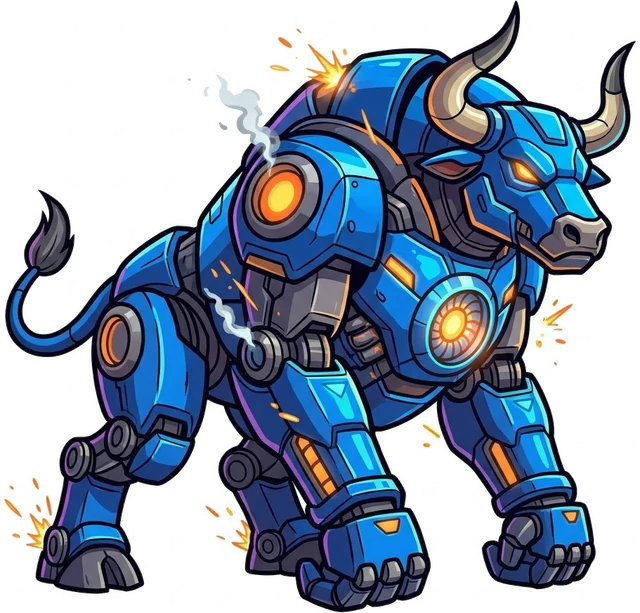
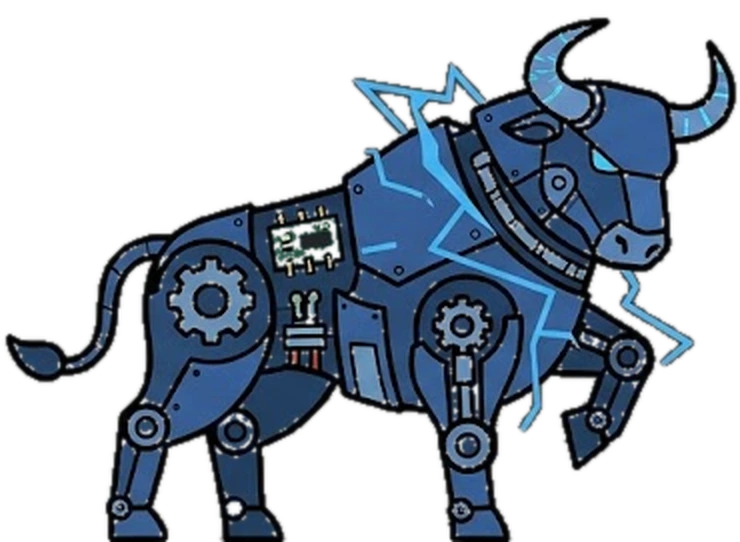
Арена: новая модель быка — красный мех из деталей, перекраска под цвет игрока
Claude-Session: https://claude.ai/code/session_01BjYnbWe2yGJMkmw3JP3QYt

diff --git a/rig.js b/rig.js
@@ -101,9 +101,76 @@ window.Rig = (() => {
     const tf = (x, y) => { const dx = x - PIV[0]; return [PIV[0] + dx * ca - y * sa, dx * sa + y * ca + dip]; };
     const N = [54, -106], hc = Math.cos(rad(ha)), hs = Math.sin(rad(ha));
     const head = (x, y) => tf(N[0] + x * hc - y * hs, N[1] + x * hs + y * hc);
-    return { lean, dip, ha, PIV, tf, N, head, gN: head(47, -45), gF: head(30, -36) };
+    return { lean, dip, ha, PIV, tf, N, head, gN: head(54, -86), gF: head(42, -72) };
   }
-  function hornPath() { cx.beginPath(); cx.moveTo(-6, -20); cx.quadraticCurveTo(21, -62, 68, -48); cx.quadraticCurveTo(32, -42, 8, -12); cx.closePath(); }
+  /* ---------- спрайты быка (детали из листа, красные → перекрашиваются под цвет игрока) ---------- */
+  const SPR = {}, SPN = { head: 1, torso: 1, legf: 1, legh: 1, tail: 1, gear: 1 }, CACHE = {};
+  Object.keys(SPN).forEach((k) => { const im = new Image(); im.onload = () => { SPR[k] = im; }; im.src = 'arena/bull_' + k + '.webp?v=1'; });
+  function hslOf(h) { const [r, g, b] = hex(h).map((v) => v / 255), mx = Math.max(r, g, b), mn = Math.min(r, g, b), d = mx - mn; let hh = 0; if (d) { hh = mx === r ? ((g - b) / d + 6) % 6 : mx === g ? (b - r) / d + 2 : (r - g) / d + 4; } return hh * 60; }
+  function recolor(name, col, dark, tint, tc) {
+    const key = [name, col, dark, tint, tc].join('|'); if (CACHE[key]) return CACHE[key];
+    const im = SPR[name], c = document.createElement('canvas'); c.width = im.width; c.height = im.height;
+    const g = c.getContext('2d', { willReadFrequently: true }); g.drawImage(im, 0, 0);
+    const d = g.getImageData(0, 0, c.width, c.height), px = d.data, shift = hslOf(col) - 3;
+    for (let i = 0; i < px.length; i += 4) {
+      if (!px[i + 3]) continue;
+      let r = px[i] / 255, gg = px[i + 1] / 255, b = px[i + 2] / 255;
+      const mx = Math.max(r, gg, b), mn = Math.min(r, gg, b), dl = mx - mn, l = (mx + mn) / 2;
+      if (dl > .05) {
+        let h = mx === r ? ((gg - b) / dl + 6) % 6 : mx === gg ? (b - r) / dl + 2 : (r - gg) / dl + 4; h *= 60;
+        const sat = dl / (1 - Math.abs(2 * l - 1) || 1);
+        if (h < 28 || h > 330) { // красный/розовый металл — перекрашиваем, жёлтые глаза и огонь не трогаем
+          h = (h + shift + 720) % 360;
+          const C2 = (1 - Math.abs(2 * l - 1)) * sat, X = C2 * (1 - Math.abs((h / 60) % 2 - 1)), m = l - C2 / 2, k = Math.floor(h / 60);
+          const q = [[C2, X, 0], [X, C2, 0], [0, C2, X], [0, X, C2], [X, 0, C2], [C2, 0, X]][k % 6]; r = q[0] + m; gg = q[1] + m; b = q[2] + m;
+        }
+      }
+      if (dark) { r *= .66; gg *= .66; b *= .7; }
+      if (tint > 0) { r += (tc[0] / 255 - r) * tint; gg += (tc[1] / 255 - gg) * tint; b += (tc[2] / 255 - b) * tint; }
+      px[i] = r * 255; px[i + 1] = gg * 255; px[i + 2] = b * 255;
+    }
+    g.putImageData(d, 0, 0); return (CACHE[key] = c);
+  }
+  // нарисовать спрайт так, чтобы его точка (px,py) попала в (x,y); sc — масштаб, ang — поворот, mir — отражение
+  function spr(name, col, dark, px, py, x, y, sc, ang = 0, mir = 1) {
+    if (!SPR[name]) return;
+    const tn = TINT > 0 ? Math.round(TINT * 6) / 6 : 0, c = recolor(name, col, dark ? 1 : 0, tn, TC);
+    cx.save(); cx.translate(x, y); cx.rotate(ang); cx.scale(sc, sc * mir); cx.drawImage(c, -px, -py); cx.restore();
+  }
+  // ноги: две части (бедро и голень), режем спрайт по колену и ставим по IK
+  const LEGS = {
+    legf: { H: [27, 22], K: [51, 83], F: [95, 133], sc: .72 },
+    legh: { H: [30, 26], K: [28, 85], F: [33, 133], sc: .9 },
+  };
+  function legPiece(name, col, dark, tint, tc, part) {
+    const key = ['leg', name, col, dark, tint, tc, part].join('|'); if (CACHE[key]) return CACHE[key];
+    const src = recolor(name, col, dark, tint, tc), Lg = LEGS[name], c = document.createElement('canvas'); c.width = src.width; c.height = src.height;
+    const g = c.getContext('2d'), ax = [Lg.K[0] - Lg.H[0], Lg.K[1] - Lg.H[1]], al = Math.hypot(ax[0], ax[1]), u = [ax[0] / al, ax[1] / al];
+    g.save(); g.beginPath();
+    // полуплоскость, перпендикулярная кости, через колено (нижняя часть захватывает диск колена целиком)
+    const off = part ? -15 : 0, P0 = [Lg.K[0] + u[0] * off, Lg.K[1] + u[1] * off], n = [-u[1], u[0]], B = 400;
+    const dir = part ? 1 : -1;
+    g.moveTo(P0[0] + n[0] * B, P0[1] + n[1] * B); g.lineTo(P0[0] - n[0] * B, P0[1] - n[1] * B);
+    g.lineTo(P0[0] - n[0] * B + u[0] * B * dir, P0[1] - n[1] * B + u[1] * B * dir); g.lineTo(P0[0] + n[0] * B + u[0] * B * dir, P0[1] + n[1] * B + u[1] * B * dir);
+    g.closePath(); g.clip(); g.drawImage(src, 0, 0); g.restore();
+    return (CACHE[key] = c);
+  }
+  function drawLeg(name, col, dark, h, kn, ft) {
+    const Lg = LEGS[name]; if (!SPR[name]) return;
+    const tn = TINT > 0 ? Math.round(TINT * 6) / 6 : 0, sc = Lg.sc;
+    const up = legPiece(name, col, dark ? 1 : 0, tn, TC, 0), lo = legPiece(name, col, dark ? 1 : 0, tn, TC, 1);
+    const sU = Math.atan2(Lg.K[1] - Lg.H[1], Lg.K[0] - Lg.H[0]), sL = Math.atan2(Lg.F[1] - Lg.K[1], Lg.F[0] - Lg.K[0]);
+    const cross = (Lg.F[0] - Lg.H[0]) * (Lg.K[1] - Lg.H[1]) - (Lg.F[1] - Lg.H[1]) * (Lg.K[0] - Lg.H[0]);
+    const cr2 = (ft[0] - h[0]) * (kn[1] - h[1]) - (ft[1] - h[1]) * (kn[0] - h[0]);
+    const mir = (cross > 0) === (cr2 > 0) ? 1 : -1;
+    const aU = Math.atan2(kn[1] - h[1], kn[0] - h[0]), aL = Math.atan2(ft[1] - kn[1], ft[0] - kn[0]);
+    const put = (img, px, py, x, y, a, sa) => { cx.save(); cx.translate(x, y); cx.rotate(a); cx.scale(sc, sc * mir); cx.rotate(-sa); cx.drawImage(img, -px, -py); cx.restore(); };
+    put(up, Lg.H[0], Lg.H[1], h[0], h[1], aU, sU);
+    put(lo, Lg.K[0], Lg.K[1], kn[0], kn[1], aL, sL);
+  }
+  function bullHead(P, S) { // голова в системе шеи (0,0): тянется к рогам
+    const sc = .72; spr('head', P.col || '#2f7dff', false, 35, 135, 0, 6, sc, 0, 1);
+  }
   function drawBull(P, S) {
     const t = P.t, pr = P.p, { tf, N, ha, PIV, dip, lean } = S, sc = P.scars;
     const BLUE = P.col || '#2f7dff', DARK = '#262d40', STEEL = '#58627a', BDK = shade(BLUE, .33), BSC = shade(BLUE, .2);
@@ -112,65 +179,40 @@ window.Rig = (() => {
     if (P.koM) { cx.translate(-50, 0); cx.rotate(-rad(P.koM * 14)); cx.translate(50, 0); }
     TINT = P.flashM * .7; TC = [255, 50, 40];
     if (P.charge > 0 && TINT < P.charge * .45) { TINT = P.charge * .45; TC = [130, 220, 255]; }
-    const jig = (i) => pr < -.1 ? Math.sin(t * 30 + i * 2.1) * 2 * -pr : 0;
-    const legs = [[-50, -74, -52, 1, 1], [30, -70, 40, -1, 1], [-36, -72, -34, 1, 0], [44, -68, 58, -1, 0]];
+    const legs = [[-54, -88, -56, 1, 1], [24, -92, 42, -1, 1], [-38, -86, -36, 1, 0], [36, -90, 60, -1, 0]];
     const eff = .45 + 1.1 * P.kickM + .45 * Math.abs(pr), amp = 9 + 14 * eff, sid = P.sid || 'l', OFF = [0, .5, .25, .75];
     const leg = (L, i) => {
-      const [hx, hy, fx, dir, far] = L, h = tf(hx, hy), [sdx, lf] = P.koM > .2 ? [0, 0] : stepFoot(sid + 'b' + i, OFF[i], t, eff, amp, P.bx + fx), [kn, ft] = ik(h, [fx + sdx, -lf], 34, 36, dir), c = far ? BDK : BLUE;
-      limb(h, kn, far ? 18 : 22, c); limb(kn, ft, far ? 13 : 15, far ? '#3e475d' : STEEL);
-      const pa = [h[0] + (kn[0] - h[0]) * .3 + 6 * dir, h[1] + (kn[1] - h[1]) * .3], pb = [kn[0] + (ft[0] - kn[0]) * .45 + 5 * dir, kn[1] + (ft[1] - kn[1]) * .45];
-      cx.lineCap = 'round'; cx.strokeStyle = OUT; cx.lineWidth = 6; line(pa, pb); cx.stroke(); cx.strokeStyle = C('#cfd6e4'); cx.lineWidth = 2.5; line(pa, pb); cx.stroke();
-      disc(kn[0], kn[1], 7.5, far ? '#3e475d' : '#4b556d'); cx.beginPath(); cx.arc(kn[0], kn[1], 3.2, 0, 7); cx.fillStyle = C('#ffb02e'); cx.fill();
-      cx.save(); cx.translate(0, ft[1]); poly([[ft[0] - 11, 0], [ft[0] + 14, 0], [ft[0] + 15, -8], [ft[0] + 4, -14], [ft[0] - 8, -12]]); shape(vg(-14, 0, far ? '#2a3042' : '#3a4258')); cx.restore();
+      const [hx, hy, fx, dir, far] = L, h = tf(hx, hy), [sdx, lf] = P.koM > .2 ? [0, 0] : stepFoot(sid + 'b' + i, OFF[i], t, eff, amp, P.bx + fx);
+      const nm = dir > 0 ? 'legh' : 'legf', Lg = LEGS[nm], l1 = Math.hypot(Lg.K[0] - Lg.H[0], Lg.K[1] - Lg.H[1]) * Lg.sc, l2 = Math.hypot(Lg.F[0] - Lg.K[0], Lg.F[1] - Lg.K[1]) * Lg.sc;
+      const [kn, ft] = ik(h, [fx + sdx, -lf], l1, l2, dir);
+      drawLeg(nm, BLUE, far, h, kn, ft);
     };
     leg(legs[0], 0); leg(legs[1], 1);
     // корпус
     cx.save(); cx.translate(PIV[0], dip); cx.rotate(rad(lean)); cx.translate(-PIV[0], 0);
     const sw = Math.sin(t * 5) * 6 - pr * 5;
-    limb([-54, -100], [-78, -94 + sw * .4], 7, DARK, false); limb([-78, -94 + sw * .4], [-90, -118 + sw], 5, DARK, false);
-    blob([[-90, -116 + sw], [-100, -130 + sw], [-86, -128 + sw], [-84, -140 + sw], [-78, -122 + sw]]); shape(C('#3a4258'), 2);
-    poly([[-18, -140], [-6, -140], [-6, -152], [-18, -152]]); shape(vg(-152, -140, '#3a4258'));
-    blob([[-56, -92], [-48, -122], [-8, -138], [32, -144], [62, -126], [70, -96], [54, -66], [14, -58], [-30, -58], [-56, -72]]);
-    shape(vg(-146, -58, BLUE, .38, .45));
-    blob([[-42, -66], [0, -60], [46, -68], [42, -80], [0, -73], [-38, -78]]); shape(C(DARK), 2);
-    cx.lineCap = 'round'; cx.strokeStyle = RGBA('#bfe4ff', .55); cx.lineWidth = 4; cx.beginPath(); cx.moveTo(-44, -116); cx.quadraticCurveTo(-8, -136, 30, -138); cx.stroke();
-    [[-20, -104], [-4, -88]].forEach(([x, y]) => { poly([[x, y], [x + 22, y - 2], [x + 22, y + 4], [x, y + 6]]); shape(C('#ffb02e', .1), 1.6); glow(x + 11, y + 2, 14, '#ff9a2e', .35); });
-    // бедро
-    disc(-30, -98, 24, sc >= 2 ? '#1d4aa8' : '#2563d6'); disc(-30, -98, 12.5, '#1a2236');
-    gear(-30, -98, 9, t * 3, '#ffb02e', 7); glow(-30, -98, 16, '#ff9a2e', .45);
+    spr('tail', BLUE, false, 100, 28, -76, -102, .7, rad(18 + sw * 1.4), 1);
+    spr('torso', BLUE, false, 0, 169, -84, -50, .72, 0, 1);
     // повреждения
     if (sc >= 1) {
-      cx.beginPath(); cx.ellipse(6, -116, 11, 7, -.2, 0, 7); shape(C('#0d1018'), 2);
-      gear(4, -116, 6, -t * 6, '#9aa6bd', 6);
-      cx.lineWidth = 2; [['#5cc8ff', 2], ['#ff8a1e', -3]].forEach(([c, o]) => { cx.strokeStyle = c; cx.beginPath(); cx.moveTo(10, -116); cx.quadraticCurveTo(20 + o, -104 + Math.sin(t * 9 + o) * 3, 16 + o, -94); cx.stroke(); });
-      if (Math.sin(t * 23) > .3) glow(14, -100, 10, '#7cf0ff', .9);
-      cx.strokeStyle = OUT; cx.lineWidth = 1.6; cx.beginPath(); cx.moveTo(-50, -84); cx.lineTo(-40, -88); cx.lineTo(-44, -80); cx.lineTo(-34, -82); cx.stroke();
+      cx.beginPath(); cx.ellipse(-6, -108, 11, 7, -.2, 0, 7); shape(C('#0d1018'), 2);
+      gear(-8, -108, 6, -t * 6, '#9aa6bd', 6);
+      cx.lineWidth = 2; [['#5cc8ff', 2], ['#ff8a1e', -3]].forEach(([c, o]) => { cx.strokeStyle = c; cx.beginPath(); cx.moveTo(-2, -108); cx.quadraticCurveTo(8 + o, -96 + Math.sin(t * 9 + o) * 3, 4 + o, -84); cx.stroke(); });
+      if (Math.sin(t * 23) > .3) glow(2, -92, 10, '#7cf0ff', .9);
+      cx.strokeStyle = OUT; cx.lineWidth = 1.6; cx.beginPath(); cx.moveTo(-50, -76); cx.lineTo(-40, -80); cx.lineTo(-44, -72); cx.lineTo(-34, -74); cx.stroke();
     }
     if (sc >= 2) {
-      cx.strokeStyle = OUT; cx.lineWidth = 1.8; cx.beginPath(); cx.moveTo(40, -128); cx.lineTo(30, -118); cx.lineTo(38, -114); cx.lineTo(26, -102); cx.stroke();
+      cx.strokeStyle = OUT; cx.lineWidth = 1.8; cx.beginPath(); cx.moveTo(36, -128); cx.lineTo(26, -118); cx.lineTo(34, -114); cx.lineTo(22, -102); cx.stroke();
       if (Math.sin(t * 12) > 0) lamp(-24, -128, 3.5, '#ff2a20');
     }
-    // плечо + турбина
-    disc(34, -104, 30, sc >= 2 ? BSC : BLUE);
-    disc(34, -104, 19, '#1a2236');
-    cx.save(); cx.translate(34, -104); cx.rotate(t * (4 + 14 * Math.abs(pr) + 10 * P.kickM));
-    for (let i = 0; i < 6; i++) { cx.rotate(Math.PI / 3); cx.beginPath(); cx.moveTo(3, 0); cx.quadraticCurveTo(10, -6, 16, -2); cx.lineTo(15, 2); cx.closePath(); cx.fillStyle = C('#9fe2ff'); cx.fill(); }
-    cx.restore();
-    glow(34, -104, 26, P.turbo ? '#ff8a1e' : '#4fd2ff', .55 + .35 * Math.abs(Math.sin(t * 6))); lamp(34, -104, 4.5, P.turbo ? '#ffb02e' : '#9ff0ff');
-    // шея и голова
-    limb([46, -110], [N[0] + 6, N[1] + 4], 22, DARK, false);
+    // колесо на плече: крутящаяся шестерёнка + свечение
+    const wx = 29, wy = -92, wsp = t * (4 + 14 * Math.abs(pr) + 10 * P.kickM);
+    spr('gear', '#ffffff', false, 26.5, 26.5, wx, wy, .48, wsp, 1);
+    glow(wx, wy, 24, P.turbo ? '#ff8a1e' : '#4fd2ff', .4 + .3 * Math.abs(Math.sin(t * 6))); lamp(wx, wy, 3.5, P.turbo ? '#ffb02e' : '#9ff0ff');
+    // голова
     cx.save(); cx.translate(N[0], N[1]); cx.rotate(rad(ha));
-    cx.save(); cx.translate(-8, -9); hornPath(); shape(vg(-62, -12, '#a39a7c', .2, .3)); cx.restore();
-    blob([[-20, -10], [-12, -26], [12, -30], [36, -22], [48, -6], [48, 10], [34, 18], [8, 20], [-14, 12]]);
-    shape(vg(-30, 20, BLUE, .4, .45));
-    blob([[32, -6], [50, -6], [56, 6], [50, 16], [32, 16], [28, 4]]); shape(vg(-6, 16, '#7d8597', .3, .35));
-    cx.beginPath(); cx.ellipse(48, 4, 2.5, 3.5, 0, 0, 7); cx.fillStyle = C('#14171f'); cx.fill();
-    cx.lineWidth = 2; cx.strokeStyle = OUT; cx.beginPath(); cx.moveTo(34, 13); cx.lineTo(48, 13); cx.stroke();
-    poly([[8, -16], [28, -14], [24, -9], [6, -9]]); shape(C('#1a2236'), 2);
-    lamp(19, -12, 3.2, '#ffb02e'); glow(19, -12, 12, '#ff8a1e', .6 + .3 * Math.sin(t * 8));
-    poly([[-12, -22], [-26, -32], [-18, -16]]); shape(C(BLUE, -.2), 2);
-    hornPath(); shape(vg(-62, -12, '#d8cfae', .35, .3));
-    cx.strokeStyle = RGBA('#ffffff', .55); cx.lineWidth = 2; cx.beginPath(); cx.moveTo(4, -24); cx.quadraticCurveTo(24, -50, 54, -48); cx.stroke();
+    bullHead(P, S);
+    glow(32, -16, 12, '#ffb02e', .55 + .3 * Math.sin(t * 8));
     cx.restore();
     cx.restore();
     leg(legs[2], 2); leg(legs[3], 3);

diff --git a/index.html b/index.html
@@ -15,7 +15,7 @@
 <script defer src="checks.js?v=17"></script>
 <script defer src="session1.js?v=1"></script>
 <script defer src="script.js?v=26"></script>
-<script defer src="rig.js?v=5"></script>
+<script defer src="rig.js?v=6"></script>
 <script defer src="arena.js?v=11"></script>
 <script defer src="duel.js?v=8"></script>
 </head>
